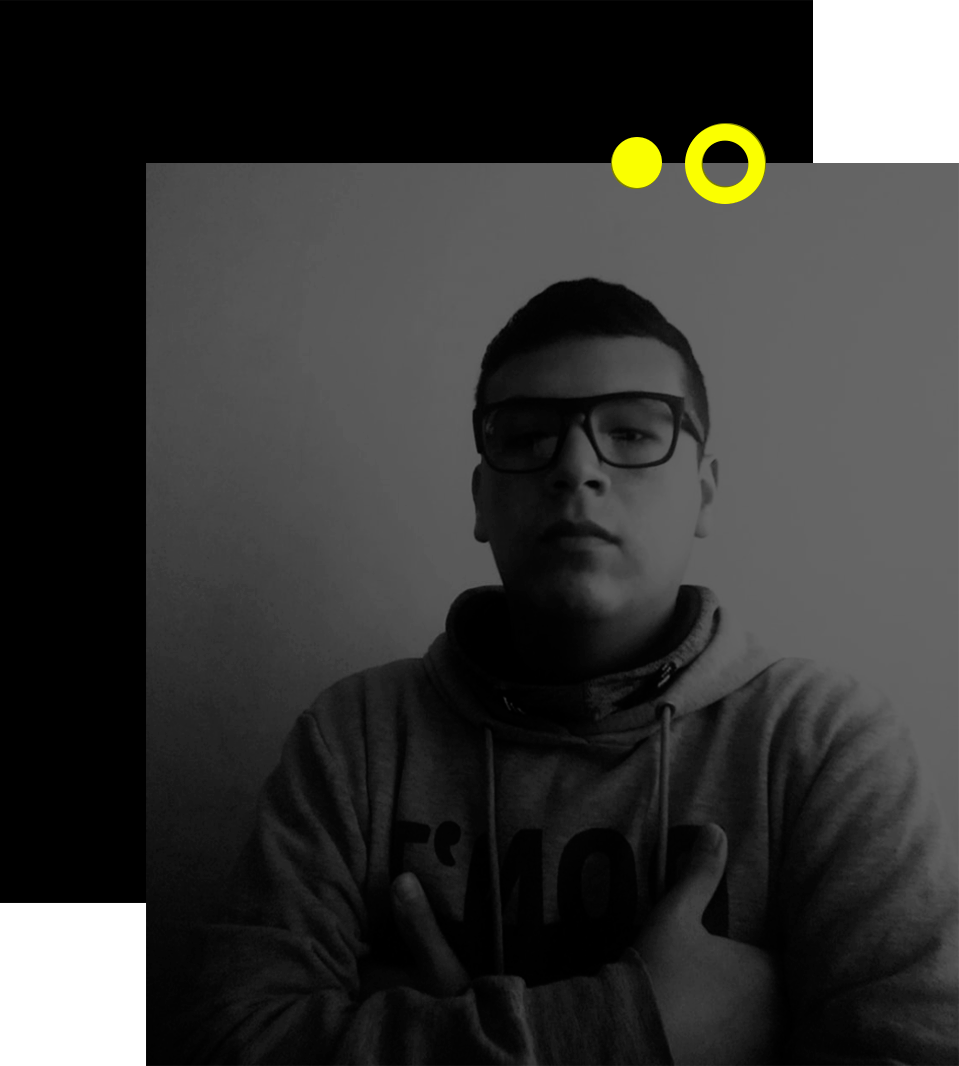
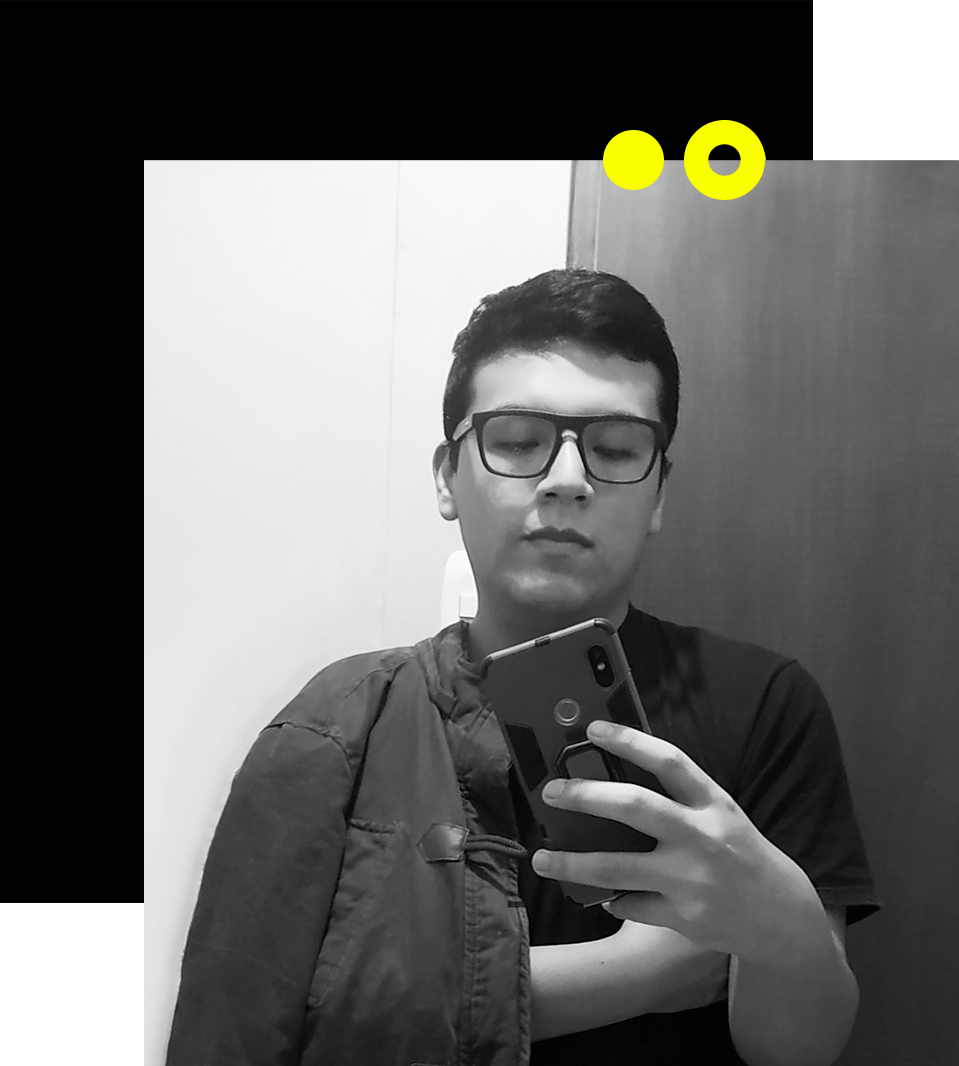
version2

diff --git a/index.html b/index.html
@@ -1,6 +1,6 @@
 <!DOCTYPE html>
-<html lang="es" oncontextmenu="return false;">
-<!-- <html lang="es"> -->
+<!-- <html lang="es" oncontextmenu="return false;"> -->
+<html lang="es">
 
 <head>
     <meta charset="UTF-8" />
@@ -53,7 +53,7 @@
                     </h1>
                 </div>
                 <picture class="hero-container-image">
-                    <img src="images/fotoPrincipal.jpeg" alt="Imagen principal" />
+                    <img src="images/fotoPrincipal.png" alt="Imagen principal" />
                 </picture>
             </article>
         </section>
@@ -133,38 +133,6 @@
                 <div class="projects-container-items">
                     <a href="https://www.google.com" class="projects-container-items-details">
                         <img src="images/project-one.png" alt="Imagen de proyecto" />
-                        <p>
-                            <img src="images/search-projects.png" alt="Imagen de lupa" />
-                            Tienda Store<br />
-                            Html5,Css3,Js
-                        </p>
-                    </a>
-                    <a href="#" class="projects-container-items-details">
-                        <img src="images/project-two.jpg" alt="Imagen de proyecto" />
-                        <p>
-                            <img src="images/search-projects.png" alt="Imagen de lupa" />
-                            Tienda Store<br />
-                            Html5,Css3,Js
-                        </p>
-                    </a>
-                    <a href="#" class="projects-container-items-details">
-                        <img src="images/project-three.jpg" alt="Imagen de proyecto" />
-                        <p>
-                            <img src="images/search-projects.png" alt="Imagen de lupa" />
-                            Tienda Store<br />
-                            Html5,Css3,Js
-                        </p>
-                    </a>
-                    <a href="#" class="projects-container-items-details">
-                        <img src="images/project-one.png" alt="Imagen de proyecto" />
-                        <p>
-                            <img src="images/search-projects.png" alt="Imagen de lupa" />
-                            Tienda Store<br />
-                            Html5,Css3,Js
-                        </p>
-                    </a>
-                    <a href="#" class="projects-container-items-details">
-                        <img src="images/project-two.jpg" alt="Imagen de proyecto" />
                         <p>
                             <img src="images/search-projects.png" alt="Imagen de lupa" />
                             Tienda Store<br />

diff --git a/css/style.css b/css/style.css
@@ -12,11 +12,11 @@ body {
 h1 {
   font-family: var(--font-secondary);
   font-weight: 400;
-  font-size: 45px;
+  font-size: 42px;
   line-height: 1.4;
   color: #fff;
   margin-top: 0.5em;
-  margin-left: 2.1em;
+  margin-left: 2.6em;
   white-space: nowrap;
   z-index: 2;
 }
@@ -107,7 +107,7 @@ ol {
   font-size: 16px;
 }
 .hero {
-  background: linear-gradient(to right, var(--color-primary) 50%, #eceaea 50%);
+  background: linear-gradient(to right, var(--color-primary) 50%, #dbdbdb 50%);
   color: #fff;
 }
 .hero-container {
@@ -349,7 +349,7 @@ ol {
 }
 @media screen and (max-width: 1264px) {
   h1 {
-    font-size: 3.5vw;
+    font-size: 3.3vw;
   }
   .about-container-description {
     font-size: 2vw;
@@ -460,7 +460,7 @@ ol {
 }
 @media screen and (max-width: 480px) {
   h1 {
-    font-size: 3.5vw;
+    font-size: 3.22vw;
   }
   .about-container {
     grid-template-columns: 1fr;
